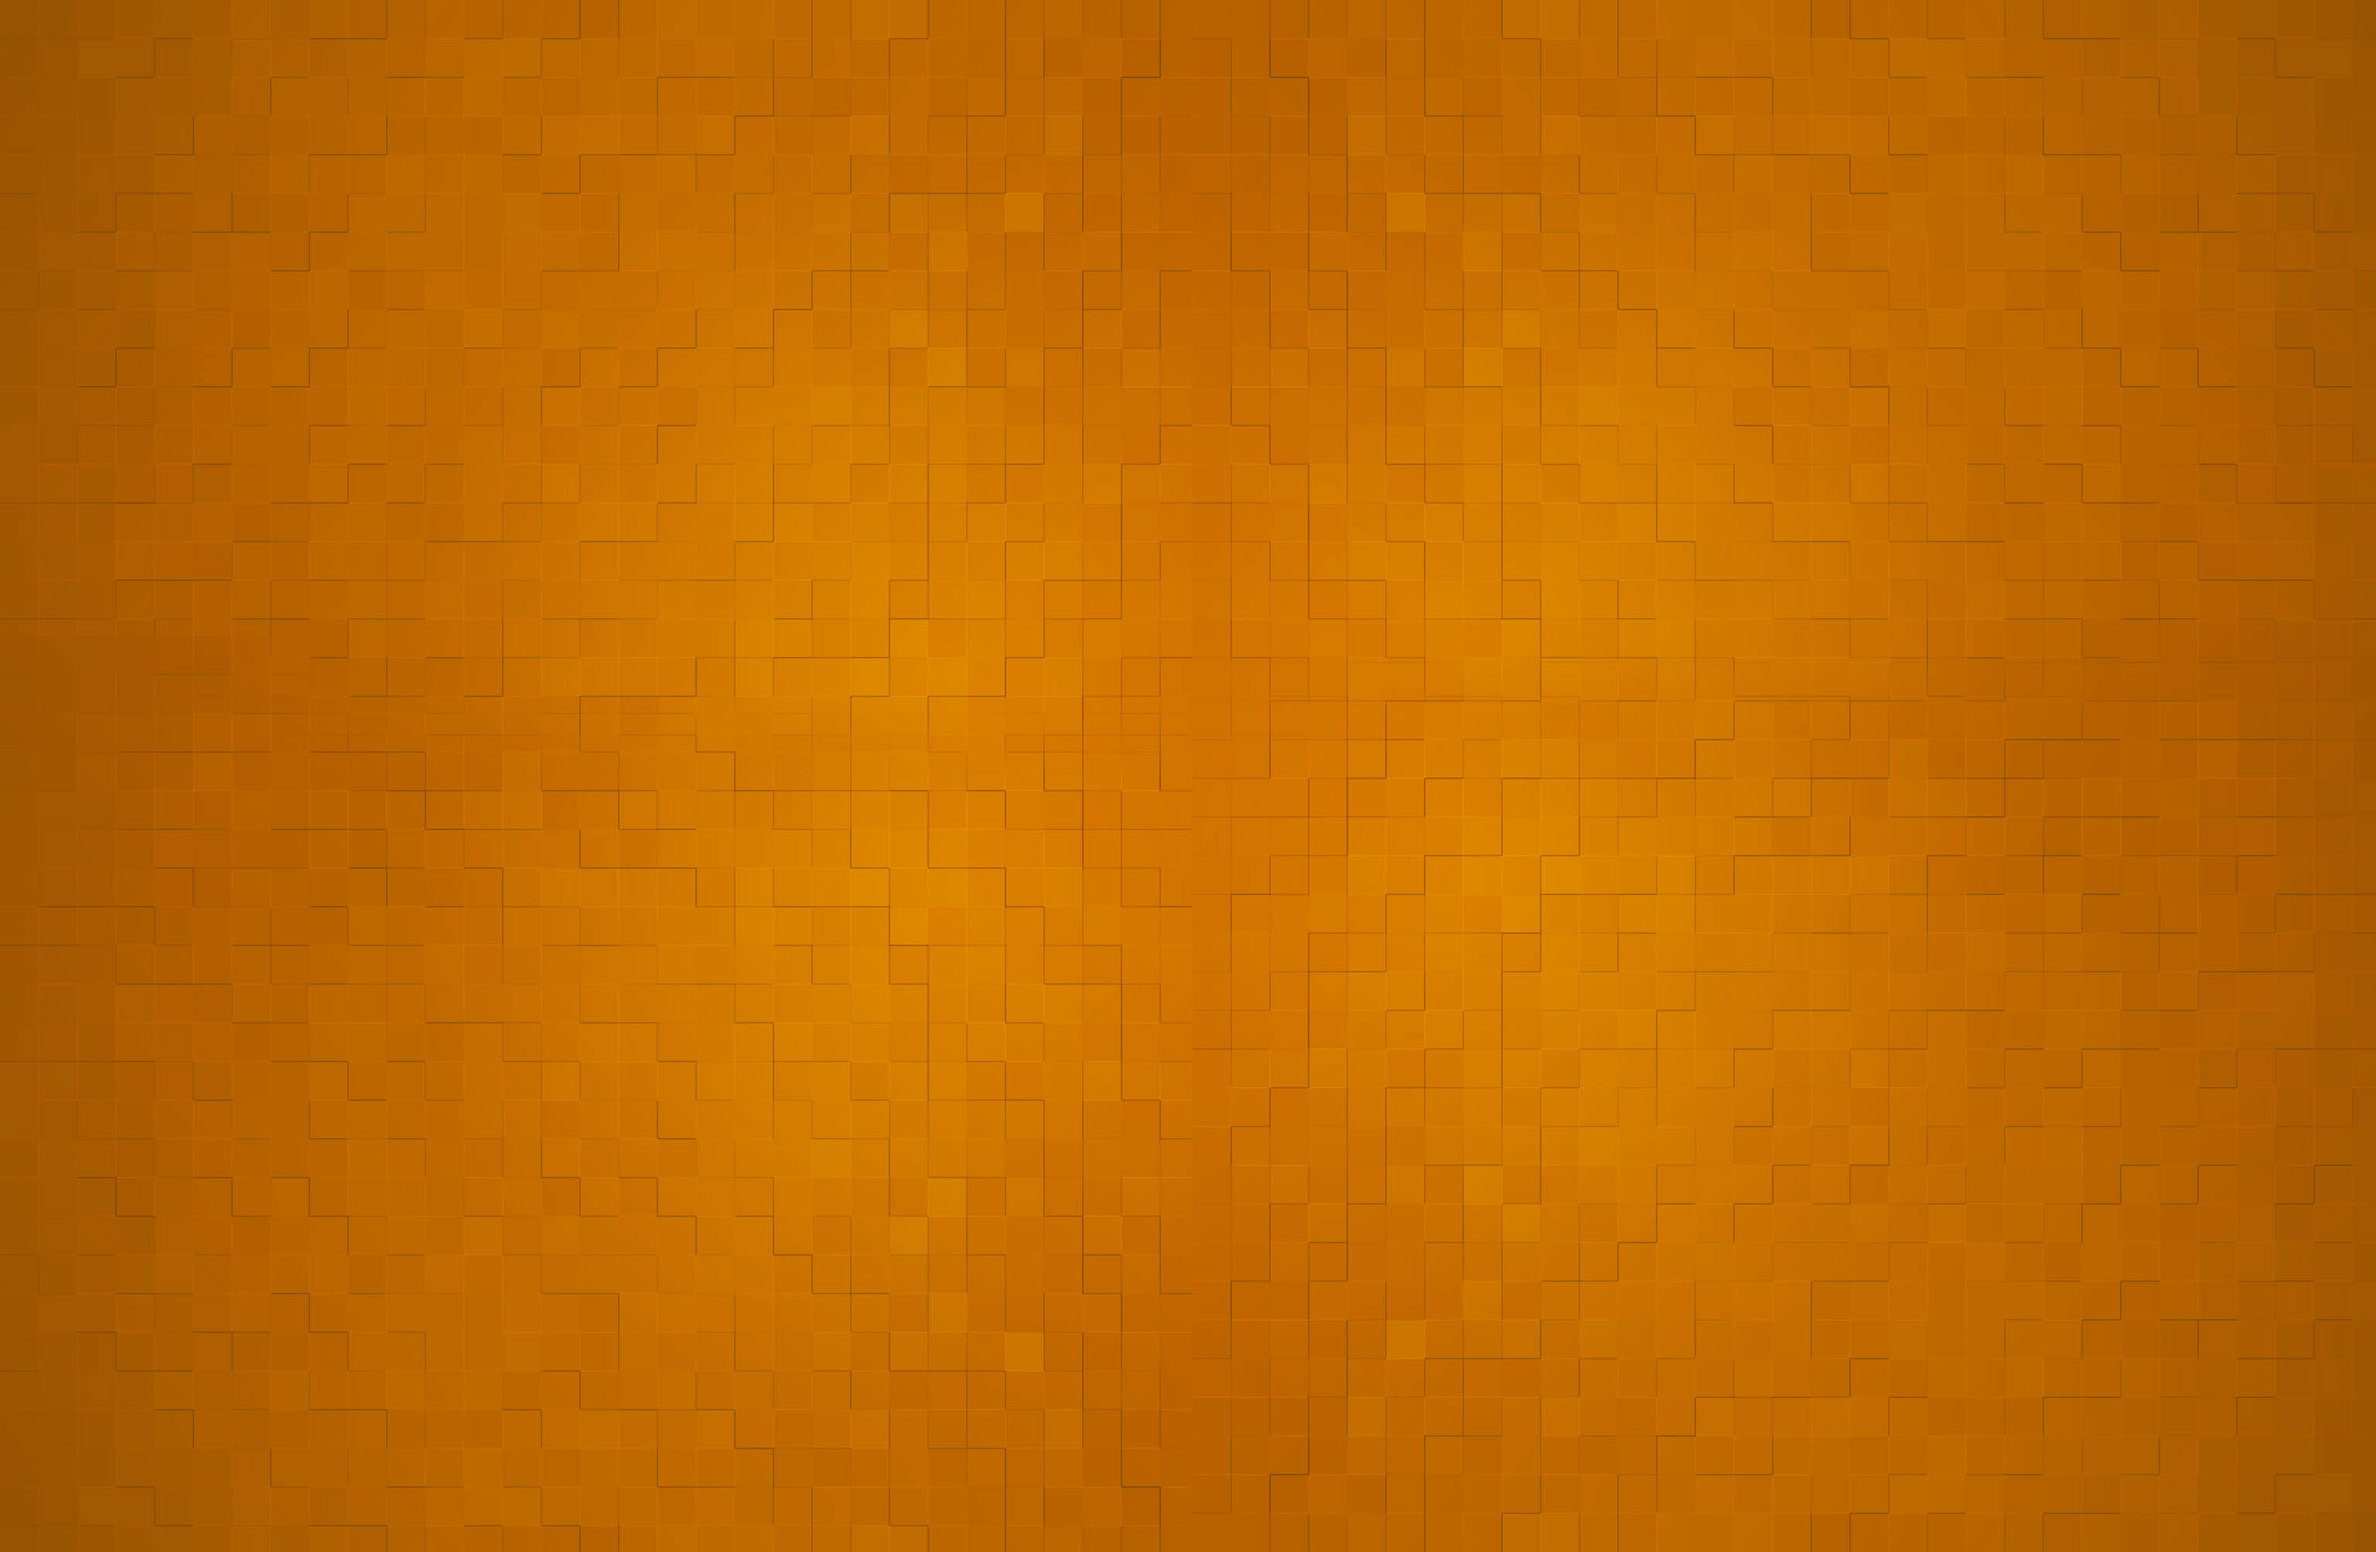
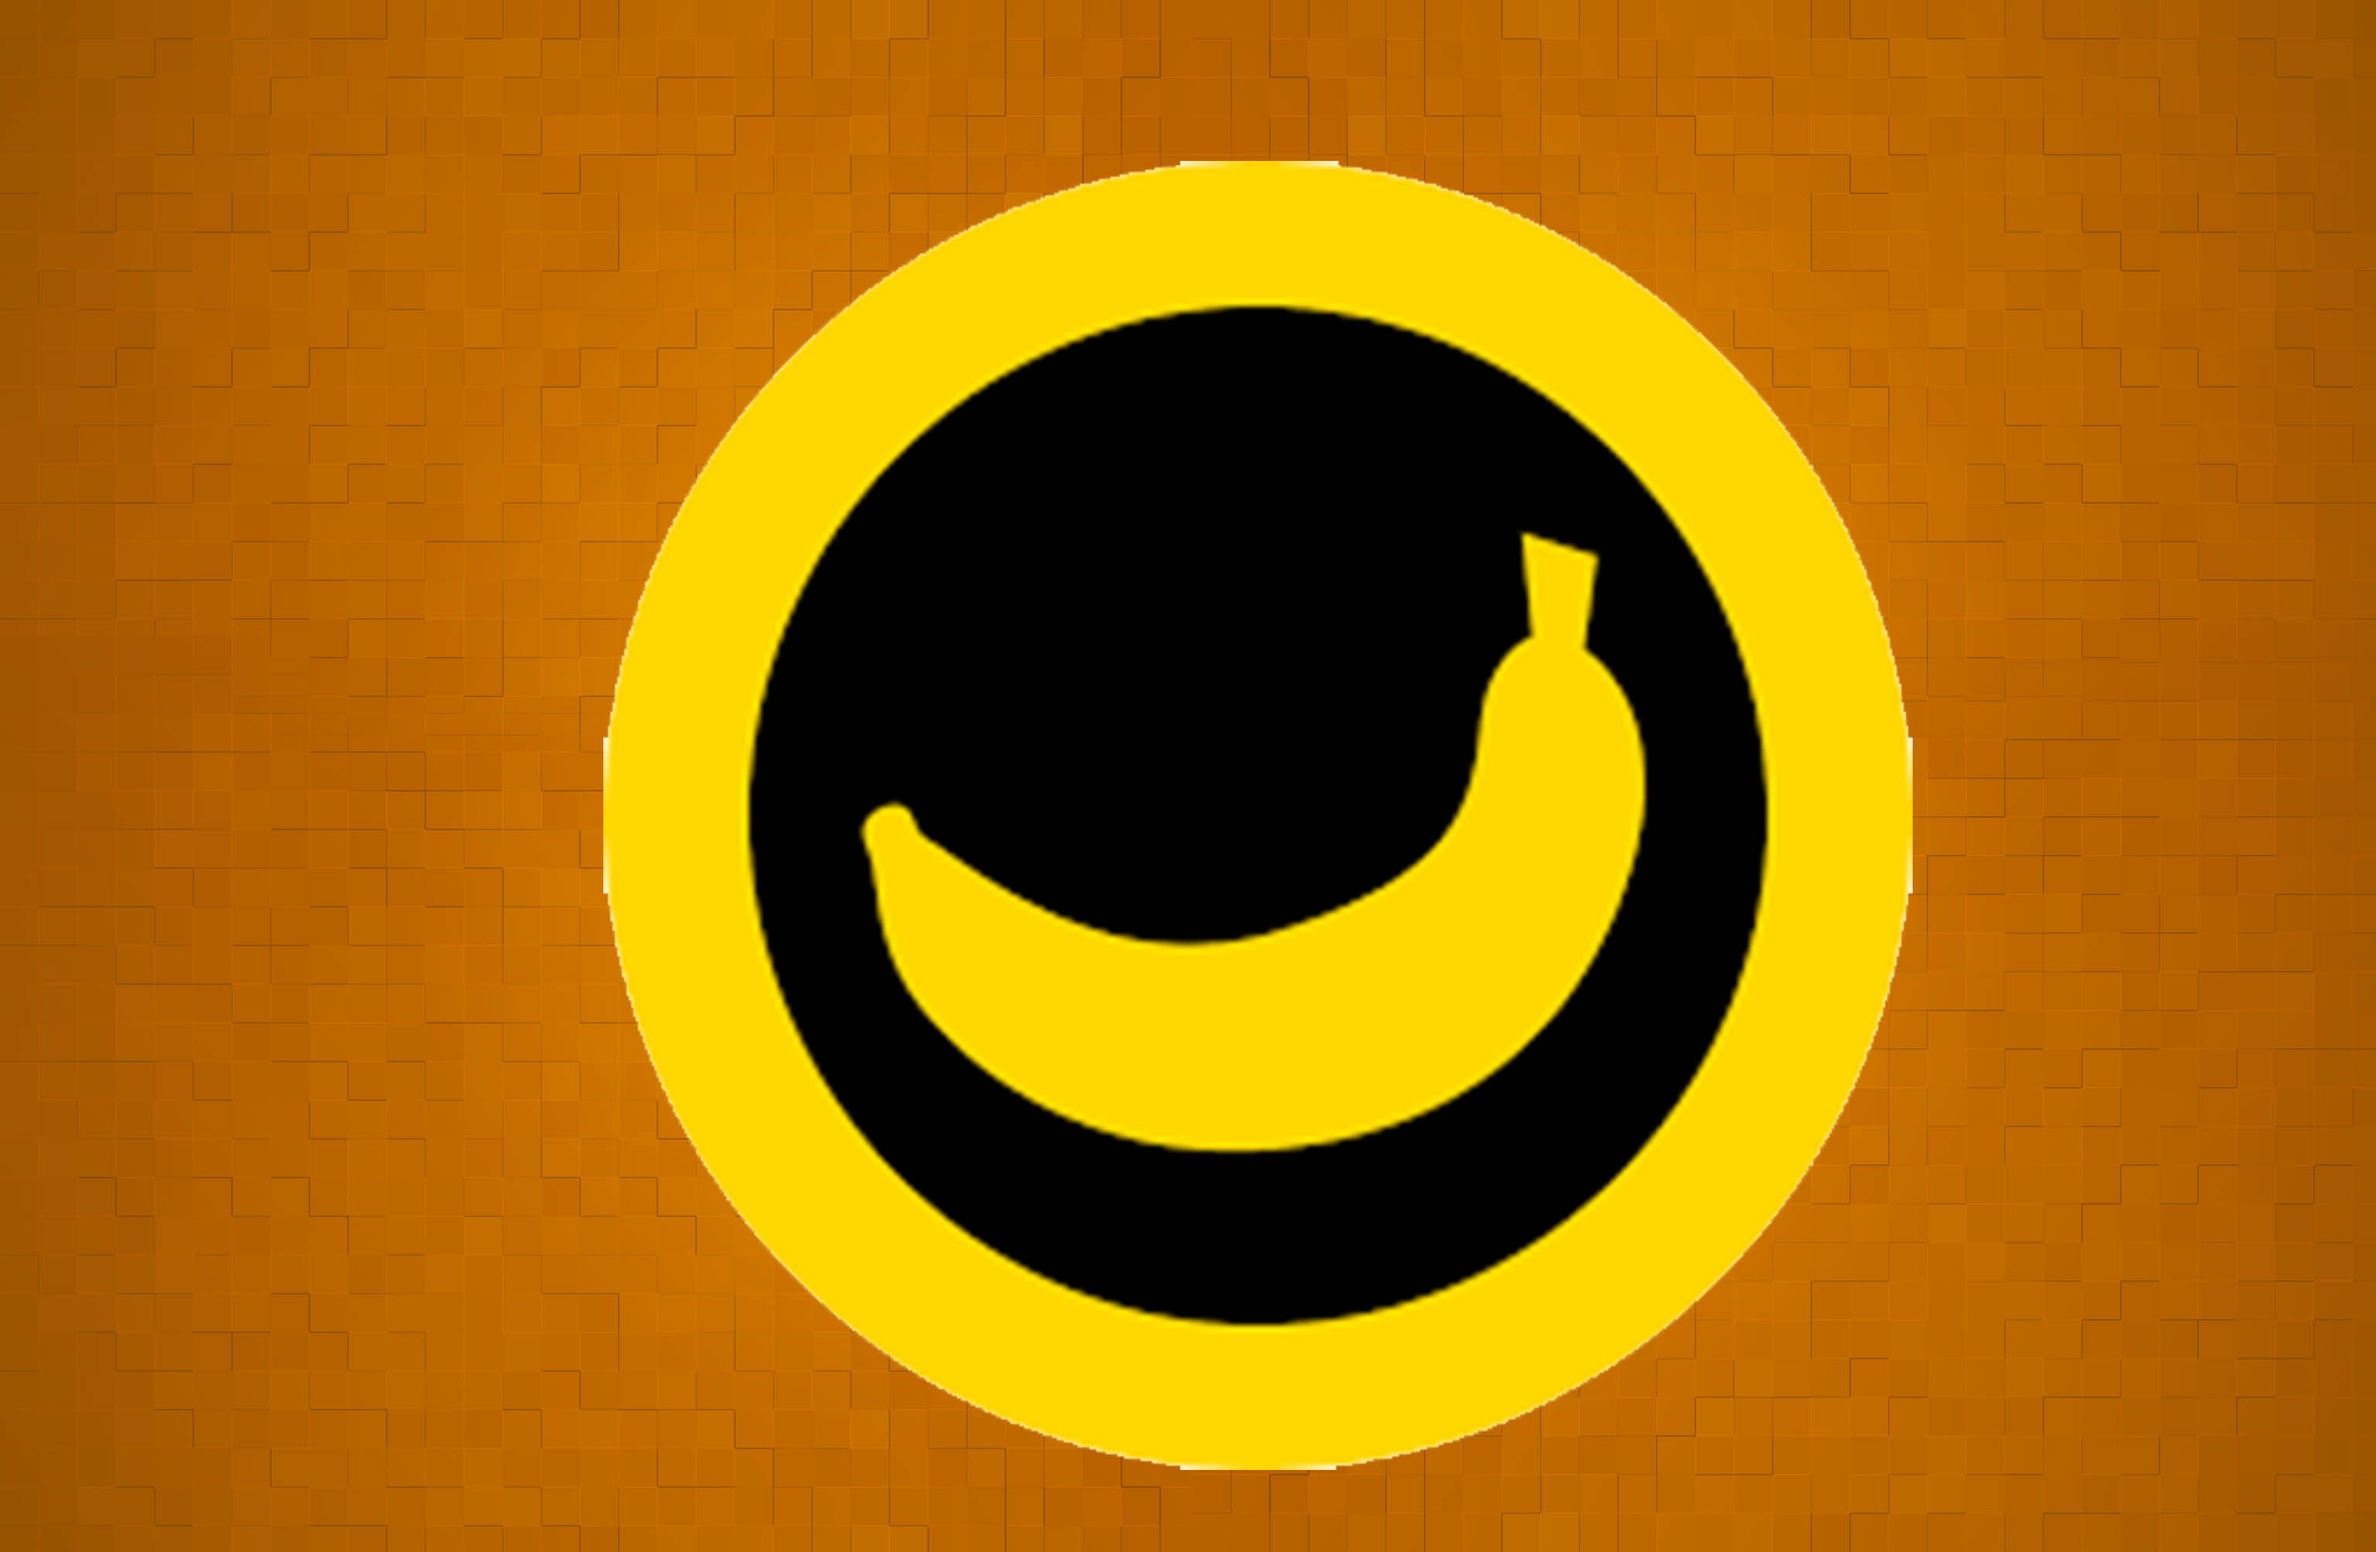
update

diff --git a/index.html b/index.html
@@ -13,7 +13,7 @@ Note: Please use our back link in your site (webthemez.com)
 <!--[if !IE]><!--> <html lang="en"> <!--<![endif]-->
 <head>
 <meta charset="utf-8">
-<title>Orange Coming Soon HTML Responsive Template</title>
+<title>Banana Club</title>
 <meta name="description" content="Trendset Page under construction">
 <meta http-equiv="X-UA-Compatible" content="chrome=1">
 <link rel="stylesheet" type="text/css" href="http://fonts.googleapis.com/css?family=PT+Sans+Narrow:regular,bold"> 
@@ -23,12 +23,13 @@ Note: Please use our back link in your site (webthemez.com)
 <body id="home">
 <div id="Header">
 <div class="wrapper">
-	<h1>Orange</h1>	
+	<h1>$BANANA CLUB LAUNCH<li><a href="" title="Twitter" class="twitterIcon"></a></li></h1>	
+	<li><a href="" title="Twitter" class="twitterIcon"></a></li>
 	</div>
 </div>
 <div id="Content" class="wrapper"> 
 <div class="countdown styled"></div> 
-<h2 class="intro">We're working hard to improve our website and we'll back on soon. Stay tuned for something amazing!. <br/>Subscribe to be notified.</h2>
+<h2 class="intro">$BANANA Address : https://solscan.io/token/8ya2qeyVfDvD54deVuRwbeh7J17FL41gEm8uX2CP1T7J</h2>
 <div id="subscribe"> 
 	<form action="" method="post" onsubmit="">
 		<p><input name="" value="Enter your e-mail" type="text" id=""/>
@@ -36,14 +37,11 @@ Note: Please use our back link in your site (webthemez.com)
 	</form>
 	<div id="socialIcons">
 		<ul> 
-			<li><a href="" title="Twitter" class="twitterIcon"></a></li>
-			<li><a href="" title="facebook" class="facebookIcon"></a></li>
-			<li><a href="" title="linkedIn" class="linkedInIcon"></a></li>
-			<li><a href="" title="Pintrest" class="pintrestIcon"></a></li>
+			<li><a href="https://twitter.com/bananaclubsol" title="Twitter" class="twitterIcon"></a></li>
 		</ul>
 	</div>
 </div>
-<span class="tempBy">Template by: <a href="http://webthemez.com" alt="webthemez">WebThemez.com</a></span>
+<span class="tempBy">By BananaClub: <a href="https://twitter.com/bananaclubsol" alt="$BANANA">2023</a></span>
 </div>
 
 <div id="overlay"></div>

diff --git a/js/global.js b/js/global.js
@@ -7,7 +7,7 @@ License URL: http://creativecommons.org/licenses/by/3.0/
 $( function() {
 // Add background image
 	$.backstretch('images/road2.jpg');
-	var endDate = "December  27, 2015 15:03:25";
+	var endDate = "Feb  10, 2023 13:03:25";
 	$('.countdown.simple').countdown({ date: endDate });
 	$('.countdown.styled').countdown({
 	  date: endDate,
